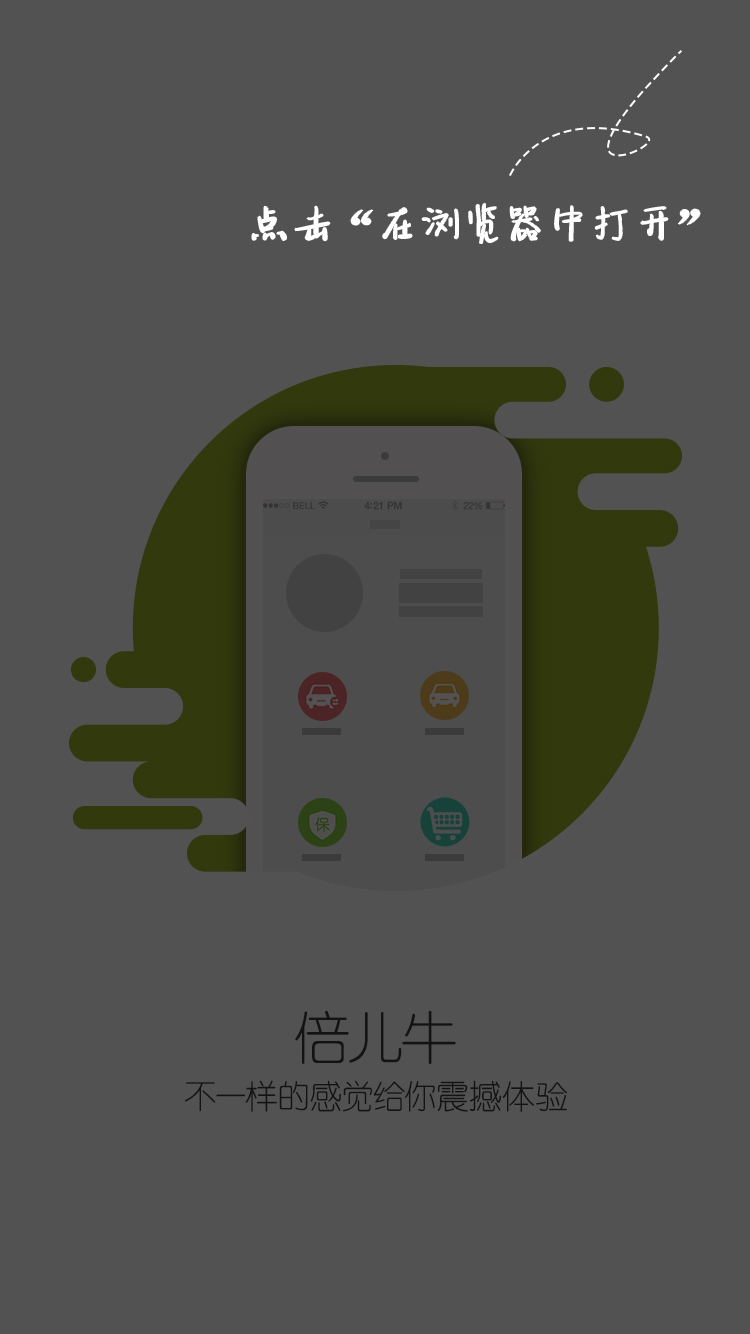
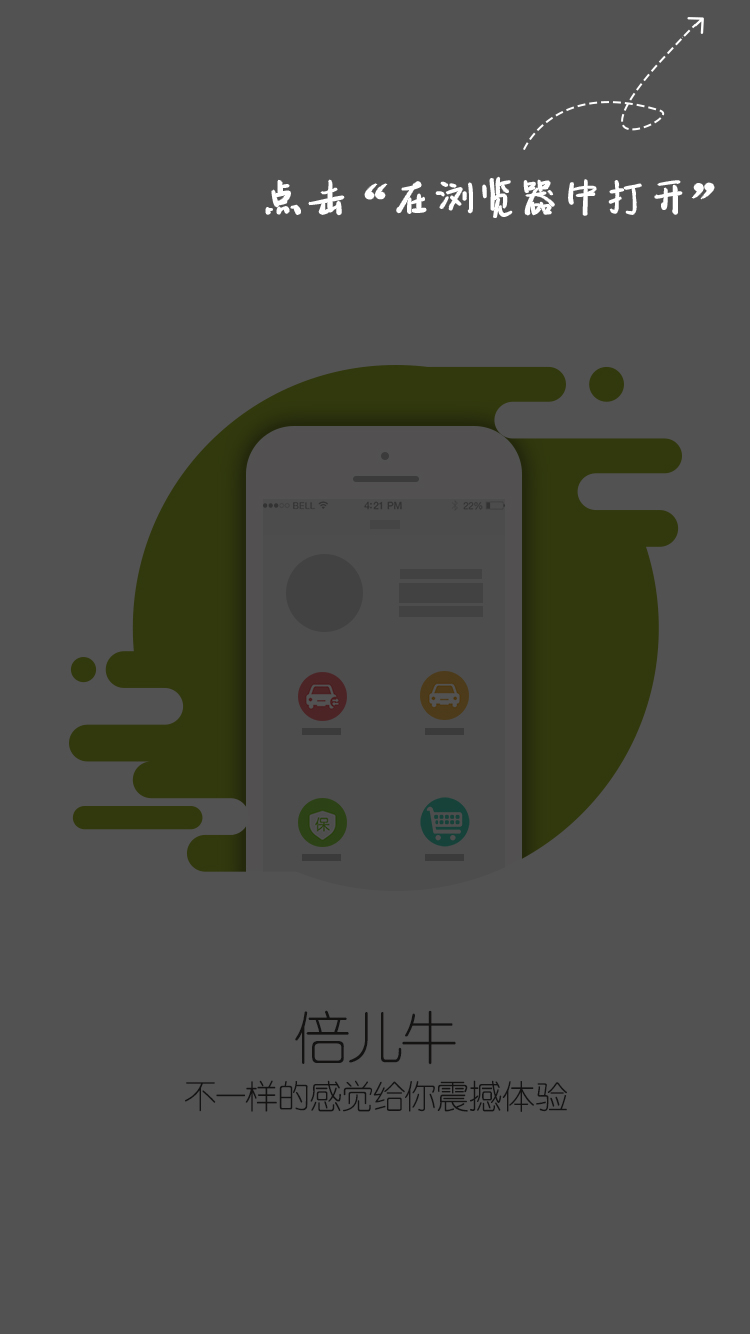
456

Changed region(s): [[0.3373, 0.0615, 0.9507, 0.1844], [0.92, 0.0, 0.9507, 0.0307], [0.8587, 0.0307, 0.8893, 0.0615]]

diff --git a/index.html b/index.html
@@ -2,7 +2,8 @@
 <html lang="en">
 <head>
 	<meta charset="UTF-8">
-	<title>Document</title>
+	<meta name="viewport" content="width=device-width, initial-scale=1.0, user-scalable=0, minimum-scale=1.0, maximum-scale=1.0">
+	<title>点击“在浏览器中打开”</title>
 	<style>
 	 body, html, img, div { 
 			padding: 0;
